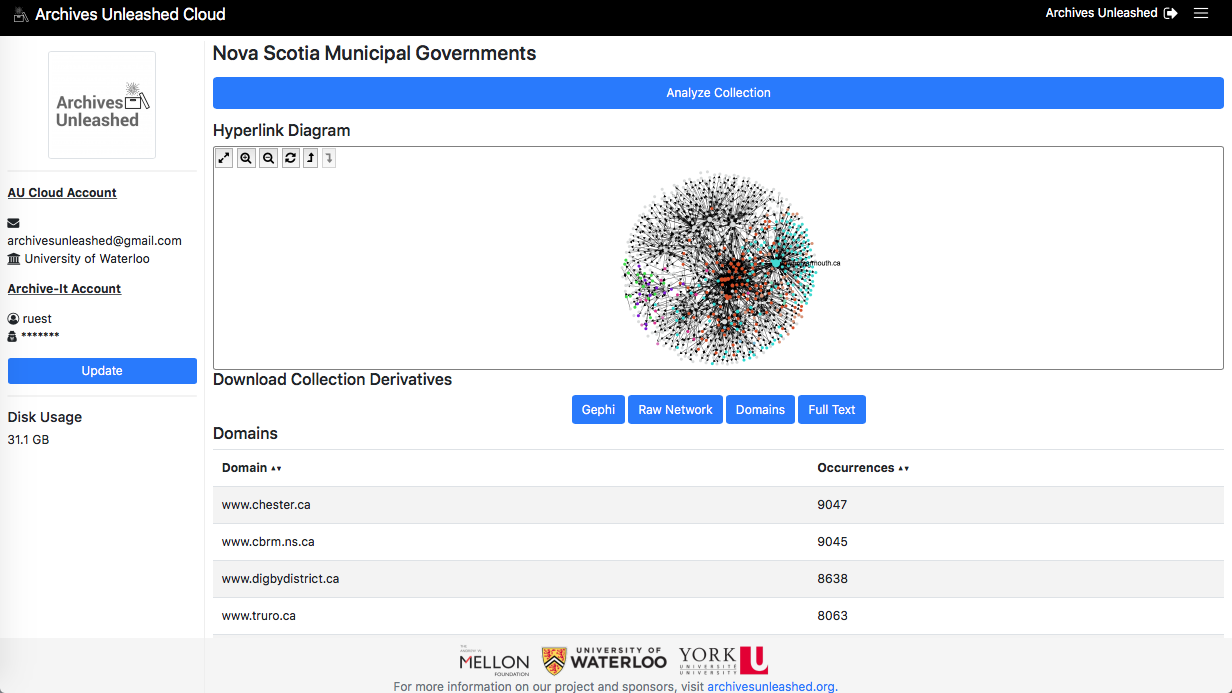
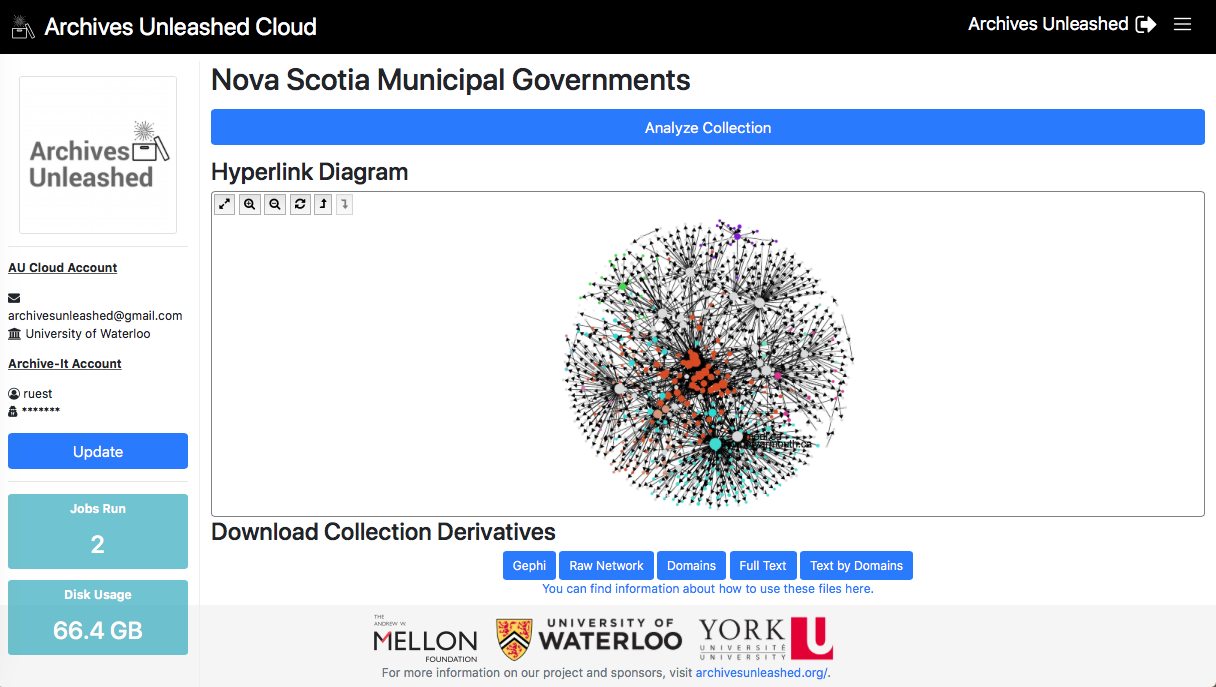
Updates Cloud Derivative Descriptions, Resolves #64 (#67)
* Adding in new derivative; link to learning guide

* Adding alias for Washington page

* Updates image for Cloud docs

* Review

diff --git a/content/cloud/index.md b/content/cloud/index.md
@@ -22,7 +22,7 @@ Core features of the Archives Unleashed Cloud include:
 
 * Syncing Archive-It collections;
 * Ingesting Archive-It collections via WASAPI to AUK;
-* Creating a network graph, domain distribution list, full-text derivatives, and making each available for download;
+* Creating a network graph, domain distribution list, full text, and full text by domain derivatives, and making each available for download;
 * Providing an in-browser network diagram to see major nodes and connections within your collection.
 
 In addition, AUK's [documentation](http://cloud.archivesunleashed.org/documentation) offers guidance on how to get AUK up and running, as well as how to use some of its features. 
@@ -47,8 +47,11 @@ The analysis process then triggers an Apache Spark job and uses AUT to create a 
 
 * A GEXF file which you can load with Gephi. It has a basic layout courtesy of our [GraphPass](https://github.com/archivesunleashed/graphpass) program, which allows you to see major nodes and communities in the network;
 * A GraphML file which you can load with [Gephi](https://gephi.org/). It does not have any basic layouts or transformations, requiring you to do so manually. You can use [GraphPass](https://github.com/archivesunleashed/graphpass) to provide layout if you wish to add that feature to your file;
-* A csv file that explains the distribution of domains within the web archive;
-* A txt file that contains the plain text extracted from HTML documents within the web archive. You can find the crawl date, full URL, and the plain text of each page within the file.
+* A CSV file that explains the distribution of domains within the web archive;
+* A TXT file that contains the plain text extracted from HTML documents within the web archive. You can find the crawl date, full URL, and the plain text of each page within the file;
+* A ZIP file that contains the plain text extracted from HTML documents within the web archive, arranged by each domain. Within this ZIP you will have a series of text files, each containing the full text of a top ten domain.
+
+If you are curious about what you can do with these files, see the [Archives Unleashed Cloud Derivative Files learning guide](https://cloud.archivesunleashed.org/derivatives).
 
 Here is a completed collection page:
 
